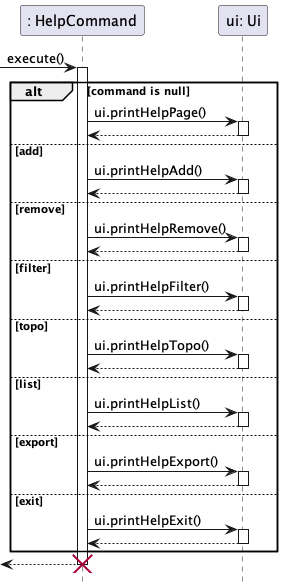
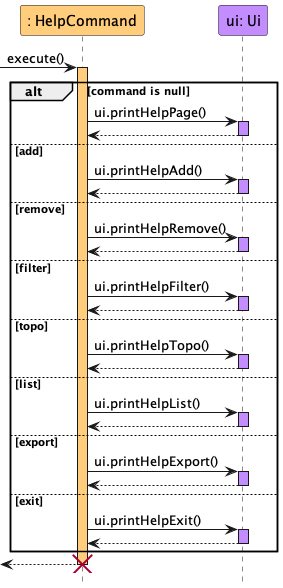
Add color to sequence and class diagrams

diff --git a/docs/team/nikkiDEEE.md b/docs/team/nikkiDEEE.md
@@ -48,11 +48,11 @@ The code contributed can be found on [RepoSense](https://nus-cs2113-ay2223s2.git
 2. Developer Guide
    - Add documentation for "Product Scope"
    - Add design and implementation for `Ui`
-   - Add implementation for `help`
+   - Add design and implementation for `help`
 
 #### Team-based tasks
 1. Attended and contributed to weekly discussions.
 2. Accommodated and accounted for team opinions in implementation.
 3. Review team members PR with non-trivial comments.
-4. Styled the UG (Jekyll, HTML and CSS).
+4. Styled the UG (Jekyll).
 
